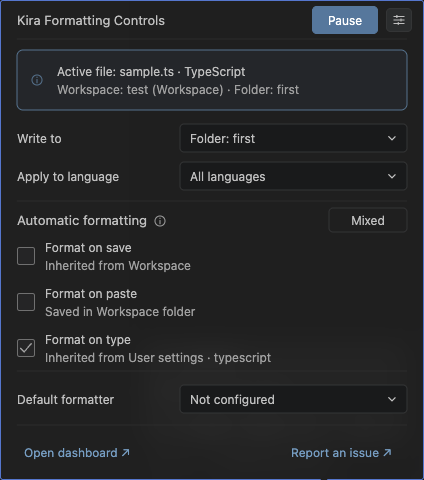
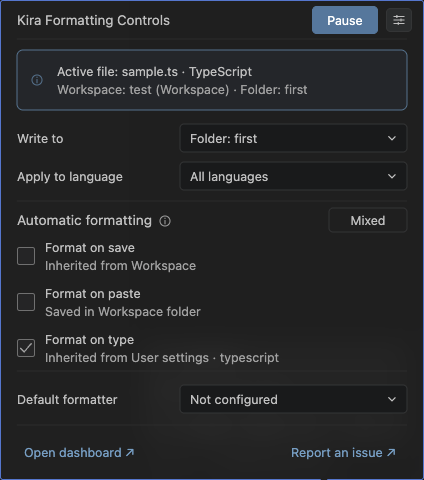
style(status): increase card text by half a pixel

diff --git a/shared/status-artwork.ts b/shared/status-artwork.ts
@@ -113,7 +113,7 @@ export function statusArtwork(
     x: number,
     y: number,
     value: string,
-    size = 12,
+    size = 12.5,
     color: string = p.fg,
     anchor: "start" | "middle" = "start",
   ) =>
@@ -168,7 +168,7 @@ export function statusArtwork(
     width = 400,
   ) => ({ svg: svg(height, contents, width), alt, width, height });
   // Keep the info gap stable when the renderer selects a wider fallback font.
-  const formattingHeading = `<text x="5" y="14" dominant-baseline="central" font-size="13" textLength="130" lengthAdjust="spacingAndGlyphs" fill="${p.fg}">Automatic formatting</text>`;
+  const formattingHeading = `<text x="5" y="14" dominant-baseline="central" font-size="13.5" textLength="135" lengthAdjust="spacingAndGlyphs" fill="${p.fg}">Automatic formatting</text>`;
   const flagContents = ["save", "paste", "type"]
     .map((label, i) => {
       const y = i * 46;
@@ -182,7 +182,7 @@ export function statusArtwork(
           33,
           y + 27,
           shortened(sourceNotes[i] ?? "", 54),
-          12,
+          12.5,
           p.muted,
         )
       );
@@ -211,7 +211,7 @@ export function statusArtwork(
     ),
     header: image(
       28,
-      centeredText(5, 14, "Kira Formatting Controls", 13),
+      centeredText(5, 14, "Kira Formatting Controls", 13.5),
       "Kira Formatting Controls",
       270,
     ),
@@ -221,7 +221,7 @@ export function statusArtwork(
         rect(5, 12, 390, 60, p.focus, p.info, 6) +
         infoGlyph(25, 42, p.focus) +
         centeredText(45, 33, shortened(file, 51)) +
-        centeredText(45, 51, shortened(workspace, 51), 12, p.muted),
+        centeredText(45, 51, shortened(workspace, 51), 12.5, p.muted),
       `${file}. ${workspace}.`,
     ),
     scopes: image(
@@ -233,11 +233,11 @@ export function statusArtwork(
         line(83),
       `Write to: ${scope}. Apply to language: ${language}. Read-only.`,
     ),
-    heading: image(28, formattingHeading, "Automatic formatting", 148),
+    heading: image(28, formattingHeading, "Automatic formatting", 153),
     state: image(
       28,
       rect(0, 2, 78, 24, p.border, "none") +
-        centeredText(39, 14, state, 12, p.fg, "middle"),
+        centeredText(39, 14, state, 12.5, p.fg, "middle"),
       `Automatic formatting: ${state}`,
       78,
     ),
@@ -245,9 +245,9 @@ export function statusArtwork(
       28,
       formattingHeading +
         // Optical alignment with the heading's visible glyphs, not its font box.
-        infoGlyph(148, 15, p.muted) +
+        infoGlyph(153, 15, p.muted) +
         rect(317, 2, 78, 24, p.border, "none") +
-        centeredText(356, 14, state, 12, p.fg, "middle"),
+        centeredText(356, 14, state, 12.5, p.fg, "middle"),
       `Automatic formatting: ${state}`,
     ),
     formatting: image(
@@ -278,7 +278,7 @@ export function statusArtwork(
           33,
           14,
           pauseLabel,
-          12,
+          12.5,
           context.canPause ? p.primaryForeground : p.muted,
           "middle",
         ),
@@ -288,14 +288,14 @@ export function statusArtwork(
     headerGap: image(28, "", "", 8),
     dashboard: image(
       28,
-      `<text x="12" y="14" dominant-baseline="central" font-size="12" textLength="106.15" lengthAdjust="spacingAndGlyphs" fill="${p.accent}">Open dashboard ↗</text>`,
+      `<text x="12" y="14" dominant-baseline="central" font-size="12.5" textLength="110.57" lengthAdjust="spacingAndGlyphs" fill="${p.accent}">Open dashboard ↗</text>`,
       "Open dashboard ↗",
       139,
     ),
     footerGap: image(36, "", "", 128),
     issue: image(
       28,
-      `<text x="12" y="14" dominant-baseline="central" font-size="12" textLength="100.62" lengthAdjust="spacingAndGlyphs" fill="${p.accent}">Report an issue ↗</text>`,
+      `<text x="12" y="14" dominant-baseline="central" font-size="12.5" textLength="104.81" lengthAdjust="spacingAndGlyphs" fill="${p.accent}">Report an issue ↗</text>`,
       "Report an issue ↗",
       133,
     ),

diff --git a/docs/status-controls.md b/docs/status-controls.md
@@ -41,7 +41,7 @@ Read-only dropdowns use standard outlined fields with normal text and arrows. Ch
 
 VS Code's public `StatusBarItem.tooltip` accepts Markdown, images and command links; arbitrary form styling is sanitized. Locally generated inert SVG images preserve the approved layout, with native links for actions and hover-only titles for help. No scripts, external images, rendering network calls or rendering files are used.
 
-The 400px content width follows the approved reference. The title and section heading use 13px regular text and body/control text 12px, including source notes, button labels and footer links. Icons, 17px checkboxes and dropdown arrows are reduced to match. Read-only fields have 28px outlines and the fixed status badge has a 24px outline. Setting rows use a 46px rhythm with approximately 10px between each checkbox and its text. Checked boxes show an outlined tick; unchecked boxes retain the same neutral surface. High-contrast themes retain distinct ticks and outlines. The file/workspace block and context info icon are vertically centered, with a 14px gap between the icon and text. The formatting heading, info glyph and fixed-width status badge share one hover-only image with an optical adjustment for the icon, rather than mixing a text baseline with icon coordinates. The badge explanation remains discoverable through the visible info icon. The blue filled Pause/Resume button uses white text, matching the reference Upgrade button’s appearance while retaining the native pause picker flow. Its 66px by 28px dimensions remain fixed across both labels; a read-only User-scope display keeps neutral styling. Borderless footer artwork shares the same content width and aligns to the card edges independently of VS Code's native table-column sizing. Its 139px and 133px button widths leave a 128px unlinked gutter.
+The 400px content width follows the approved reference. The title and section heading use 13.5px regular text and body/control text 12.5px, including source notes, button labels and footer links. Icons, 17px checkboxes and dropdown arrows are reduced to match. Read-only fields have 28px outlines and the fixed status badge has a 24px outline. Setting rows use a 46px rhythm with approximately 10px between each checkbox and its text. Checked boxes show an outlined tick; unchecked boxes retain the same neutral surface. High-contrast themes retain distinct ticks and outlines. The file/workspace block and context info icon are vertically centered, with a 14px gap between the icon and text. The formatting heading, info glyph and fixed-width status badge share one hover-only image with an optical adjustment for the icon, rather than mixing a text baseline with icon coordinates. The badge explanation remains discoverable through the visible info icon. The blue filled Pause/Resume button uses white text, matching the reference Upgrade button’s appearance while retaining the native pause picker flow. Its 66px by 28px dimensions remain fixed across both labels; a read-only User-scope display keeps neutral styling. Borderless footer artwork shares the same content width and aligns to the card edges independently of VS Code's native table-column sizing. Its 139px and 133px button widths leave a 128px unlinked gutter.
 
 Transparent artwork reveals the native hover surface. Dark, light, high-contrast and high-contrast-light palettes follow the theme kind; arbitrary custom theme colors/fonts are not available inside the image renderer. Native links follow the editor's own hover/focus styling. The public Markdown tooltip cannot reproduce Copilot's custom grey icon-button hover fill or enforce a custom hover underline. This limitation does not change layout or actions.
 

diff --git a/CHANGELOG.md b/CHANGELOG.md
@@ -3,7 +3,7 @@
 ## 0.5.0 — Unreleased
 
 - Routed Pause/Resume through a native picker and Command Palette command. The card closes before settings change; cancellation preserves preferences and no live Pausing/Resuming redraw is used. Durable recovery and dashboard confirmations remain.
-- Set card typography to 13px headings and 12px body text, with proportionally smaller settings/info glyphs, checkboxes and arrows. Pause/Resume now uses a blue fill and white text with fixed dimensions.
+- Set card typography to 13.5px headings and 12.5px body text, with proportionally smaller settings/info glyphs, checkboxes and arrows. Pause/Resume now uses a blue fill and white text with fixed dimensions.
 - Detect unsaved destination settings before Pause/Resume starts, preserving edits and recovery data. An Open settings file warning helps users save the document and retry; unrelated dirty files do not block changes.
 - Styled Open dashboard and Report an issue as transparent blue borderless buttons with Pause-sized height, no underline and a hand cursor across each complete button.
 - Moved the fixed-width Pause/Resume button to the header before Settings, with its explanation in a tooltip. Removed the separate pause caption row.
